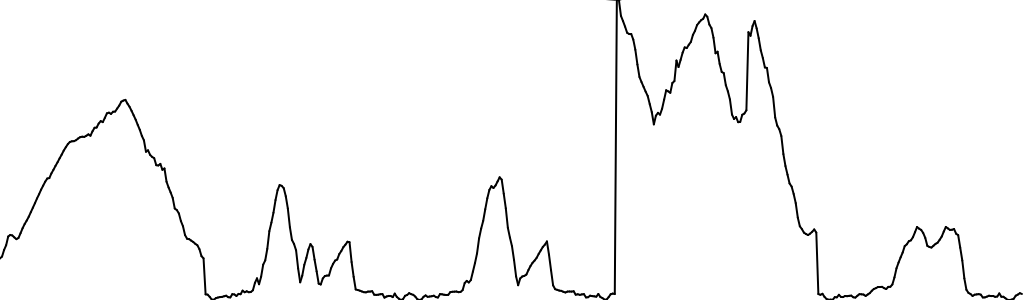
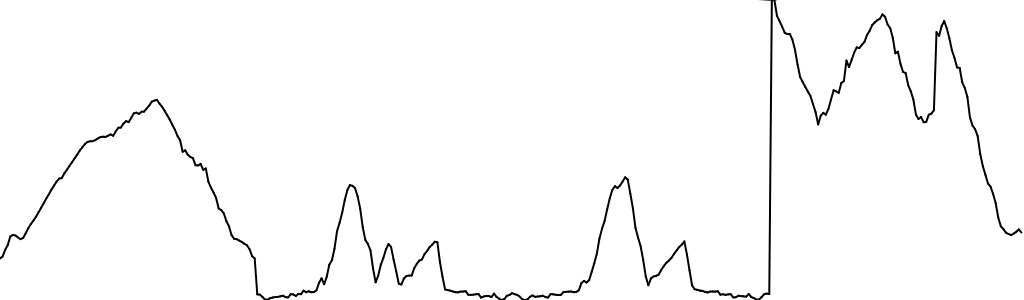
Split elevation fetch functions. Make sure mergeStreams wipes the stream before creating it.

diff --git a/pkg/elevationgraph/elevationgraph.go b/pkg/elevationgraph/elevationgraph.go
@@ -1,6 +1,8 @@
 package elevationgraph
 
 import (
+	"errors"
+	"log"
 	"time"
 
 	"github.com/fogleman/gg"
@@ -11,7 +13,6 @@ import (
 type Type struct {
 	activities   []activity
 	dc           *gg.Context
-	athleteID    int64
 	mergedStream []float64
 }
 
@@ -21,21 +22,29 @@ type activity struct {
 }
 
 // New creates a new elevationgraph structure
-func New(athleteID int64) *Type {
+func New() *Type {
 	w := 1024
 	h := 300
 
 	t := new(Type)
 	t.dc = gg.NewContext(w, h)
-	t.athleteID = athleteID
 	return t
 }
 
 // MakeImage create a png image of the elevationgraph type
-func (t *Type) MakeImage(accessToken string) {
-	t.getActivities(accessToken)
+func (t *Type) MakeImage(accessToken string) error {
+	err := t.getActivities(accessToken)
+	if err != nil {
+		log.Println(err)
+		return errors.New("error retreiving activity summaries")
+	}
+	err = t.getActivityStreams(accessToken)
+	if err != nil {
+		return errors.New("error retreiving activity stream")
+	}
 	t.mergeStreams()
 	t.drawImage()
+	return nil
 }
 
 func (t *Type) getActivities(accessToken string) error {
@@ -51,23 +60,34 @@ func (t *Type) getActivities(accessToken string) error {
 		return err
 	}
 
+	for _, a := range activities {
+		t.activities = append(t.activities, activity{activitySummary: a, activiyStream: new(strava.StreamSet)})
+	}
+
+	return nil
+}
+
+func (t *Type) getActivityStreams(accessToken string) error {
+
+	client := strava.NewClient(accessToken)
+
 	types := []strava.StreamType{"altitude"}
 	resolution := "low"
 	seriesType := "distance"
 
-	for _, a := range activities {
-
-		s, err := strava.NewActivityStreamsService(client).Get(a.Id, types).Resolution(resolution).SeriesType(seriesType).Do()
+	for _, a := range t.activities {
+		s, err := strava.NewActivityStreamsService(client).Get(a.activitySummary.Id, types).Resolution(resolution).SeriesType(seriesType).Do()
 		if err != nil {
 			return err
 		}
-
-		t.activities = append(t.activities, activity{activitySummary: a, activiyStream: s})
+		*a.activiyStream = *s
 	}
+
 	return nil
 }
 
 func (t *Type) mergeStreams() {
+	t.mergedStream = []float64{}
 	for _, a := range t.activities {
 		t.mergedStream = append(t.mergedStream, a.activiyStream.Elevation.Data...)
 	}

diff --git a/cmd/main.go b/cmd/main.go
@@ -29,7 +29,10 @@ func main() {
 		}
 	}
 
-	e := elevationgraph.New(athleteID)
-	e.MakeImage(accessToken)
+	e := elevationgraph.New()
+	err := e.MakeImage(accessToken)
+	if err != nil {
+		panic(err)
+	}
 
 }
